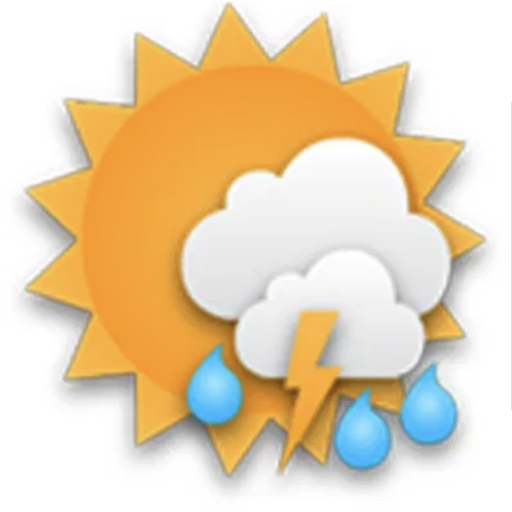
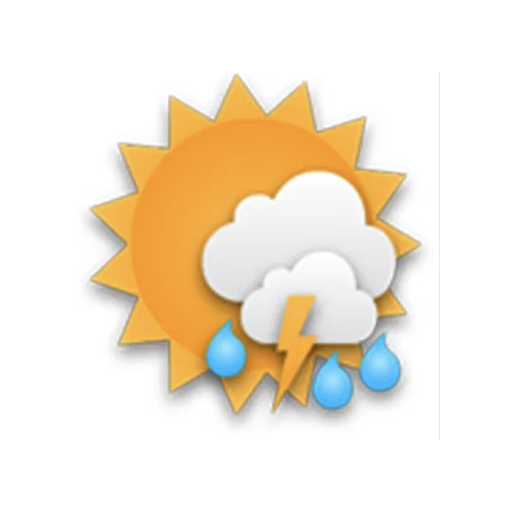
Add files via upload

diff --git a/index.html b/index.html
@@ -549,7 +549,7 @@ body{color:var(--text);font-family:-apple-system,'SF Pro Display',system-ui,sans
   <div class="lk-name" style="color:var(--text3)">잠금</div>
   <div class="lk-blocked" id="il-blk"></div>
   <div class="lk-form" id="il-form">
-    <input type="password" class="lk-inp" id="il-inp" placeholder="••••••" onkeydown="if(event.key==='Enter')iUnlock()" autocomplete="off">
+    <input type="password" class="lk-inp" id="il-inp" placeholder="앱 비밀번호" onkeydown="if(event.key==='Enter')iUnlock()" autocomplete="off">
     <div class="lk-err" id="il-err"></div>
     <button class="lk-btn" onclick="iUnlock()">해제</button>
   </div>
@@ -575,11 +575,7 @@ body{color:var(--text);font-family:-apple-system,'SF Pro Display',system-ui,sans
         <svg width="16" height="16" fill="none" stroke="currentColor" stroke-width="2" viewBox="0 0 24 24"><polyline points="3 6 5 6 21 6"/><path d="M19 6l-1 14H6L5 6"/><path d="M10 11v6M14 11v6"/><path d="M9 6V4h6v2"/></svg>
       </button>
       <button class="icon-btn" id="settings-btn" onclick="openSheet();clearMsgAlert()">
-        <svg id="settings-icon-single" width="16" height="16" fill="none" stroke="currentColor" stroke-width="2" viewBox="0 0 24 24"><circle cx="12" cy="12" r="3"/><path d="M19.4 15a1.65 1.65 0 0 0 .33 1.82l.06.06a2 2 0 0 1-2.83 2.83l-.06-.06a1.65 1.65 0 0 0-1.82-.33 1.65 1.65 0 0 0-1 1.51V21a2 2 0 0 1-4 0v-.09A1.65 1.65 0 0 0 9 19.4a1.65 1.65 0 0 0-1.82.33l-.06.06a2 2 0 0 1-2.83-2.83l.06-.06A1.65 1.65 0 0 0 4.68 15a1.65 1.65 0 0 0-1.51-1H3a2 2 0 0 1 0-4h.09A1.65 1.65 0 0 0 4.6 9a1.65 1.65 0 0 0-.33-1.82l-.06-.06a2 2 0 0 1 2.83-2.83l.06.06A1.65 1.65 0 0 0 9 4.68a1.65 1.65 0 0 0 1-1.51V3a2 2 0 0 1 4 0v.09a1.65 1.65 0 0 0 1 1.51 1.65 1.65 0 0 0 1.82-.33l.06-.06a2 2 0 0 1 2.83 2.83l-.06.06A1.65 1.65 0 0 0 19.4 9a1.65 1.65 0 0 0 1.51 1H21a2 2 0 0 1 0 4h-.09a1.65 1.65 0 0 0-1.51 1z"/></svg>
-        <svg id="settings-icon-double" width="22" height="14" fill="none" stroke="currentColor" stroke-width="2" viewBox="0 0 44 28" style="display:none">
-          <g transform="translate(0,0)"><circle cx="10" cy="10" r="3.5"/><path d="M17.4 13a1.3 1.3 0 0 0 .26 1.45l.05.05a1.6 1.6 0 0 1-2.26 2.26l-.05-.05a1.3 1.3 0 0 0-1.45-.26 1.3 1.3 0 0 0-.8 1.2V18a1.6 1.6 0 0 1-3.2 0v-.07a1.3 1.3 0 0 0-.85-1.19 1.3 1.3 0 0 0-1.45.26l-.05.05a1.6 1.6 0 0 1-2.26-2.26l.05-.05A1.3 1.3 0 0 0 5.4 13a1.3 1.3 0 0 0-1.2-.8H4a1.6 1.6 0 0 1 0-3.2h.07a1.3 1.3 0 0 0 1.19-.85 1.3 1.3 0 0 0-.26-1.45l-.05-.05A1.6 1.6 0 0 1 7.21 4.4l.05.05A1.3 1.3 0 0 0 8.71 4.7a1.3 1.3 0 0 0 .8-1.2V3.4a1.6 1.6 0 0 1 3.2 0v.07a1.3 1.3 0 0 0 .8 1.2 1.3 1.3 0 0 0 1.45-.26l.05-.05a1.6 1.6 0 0 1 2.26 2.26l-.05.05A1.3 1.3 0 0 0 17.48 8a1.3 1.3 0 0 0 1.2.8h.12a1.6 1.6 0 0 1 0 3.2h-.07a1.3 1.3 0 0 0-1.2.8z"/></g>
-          <g transform="translate(22,8)"><circle cx="10" cy="10" r="3.5"/><path d="M17.4 13a1.3 1.3 0 0 0 .26 1.45l.05.05a1.6 1.6 0 0 1-2.26 2.26l-.05-.05a1.3 1.3 0 0 0-1.45-.26 1.3 1.3 0 0 0-.8 1.2V18a1.6 1.6 0 0 1-3.2 0v-.07a1.3 1.3 0 0 0-.85-1.19 1.3 1.3 0 0 0-1.45.26l-.05.05a1.6 1.6 0 0 1-2.26-2.26l.05-.05A1.3 1.3 0 0 0 5.4 13a1.3 1.3 0 0 0-1.2-.8H4a1.6 1.6 0 0 1 0-3.2h.07a1.3 1.3 0 0 0 1.19-.85 1.3 1.3 0 0 0-.26-1.45l-.05-.05A1.6 1.6 0 0 1 7.21 4.4l.05.05A1.3 1.3 0 0 0 8.71 4.7a1.3 1.3 0 0 0 .8-1.2V3.4a1.6 1.6 0 0 1 3.2 0v.07a1.3 1.3 0 0 0 .8 1.2 1.3 1.3 0 0 0 1.45-.26l.05-.05a1.6 1.6 0 0 1 2.26 2.26l-.05.05A1.3 1.3 0 0 0 17.48 8a1.3 1.3 0 0 0 1.2.8h.12a1.6 1.6 0 0 1 0 3.2h-.07a1.3 1.3 0 0 0-1.2.8z"/></g>
-        </svg>
+        <svg width="16" height="16" fill="none" stroke="currentColor" stroke-width="2" viewBox="0 0 24 24"><circle cx="12" cy="12" r="3"/><path d="M19.4 15a1.65 1.65 0 0 0 .33 1.82l.06.06a2 2 0 0 1-2.83 2.83l-.06-.06a1.65 1.65 0 0 0-1.82-.33 1.65 1.65 0 0 0-1 1.51V21a2 2 0 0 1-4 0v-.09A1.65 1.65 0 0 0 9 19.4a1.65 1.65 0 0 0-1.82.33l-.06.06a2 2 0 0 1-2.83-2.83l.06-.06A1.65 1.65 0 0 0 4.68 15a1.65 1.65 0 0 0-1.51-1H3a2 2 0 0 1 0-4h.09A1.65 1.65 0 0 0 4.6 9a1.65 1.65 0 0 0-.33-1.82l-.06-.06a2 2 0 0 1 2.83-2.83l.06.06A1.65 1.65 0 0 0 9 4.68a1.65 1.65 0 0 0 1-1.51V3a2 2 0 0 1 4 0v.09a1.65 1.65 0 0 0 1 1.51 1.65 1.65 0 0 0 1.82-.33l.06-.06a2 2 0 0 1 2.83 2.83l-.06.06A1.65 1.65 0 0 0 19.4 9a1.65 1.65 0 0 0 1.51 1H21a2 2 0 0 1 0 4h-.09a1.65 1.65 0 0 0-1.51 1z"/></svg>
       </button>
       <button class="icon-btn" onclick="forceQuit()" style="color:#c0392b">
         <svg width="16" height="16" fill="none" stroke="currentColor" stroke-width="2" viewBox="0 0 24 24"><path d="M18.36 6.64A9 9 0 1 1 5.64 5.64"/><line x1="12" y1="2" x2="12" y2="12"/></svg>
@@ -1203,7 +1199,9 @@ async function afterUnlock(){
     }
     const su=localStorage.getItem(K.SU);
     if(!su){document.getElementById('ss').classList.add('on');return;}
-    const s=JSON.parse(su);myName=s.name;roomId=s.code.toUpperCase();secretKey=s.secret;myId='u_'+crypto.randomUUID().substring(0,8);await enterRoom();
+    const s=JSON.parse(su);myName=s.name;roomId=s.code.toUpperCase();secretKey=s.secret;
+    if(!myId){myId=localStorage.getItem('my_uid')||('u_'+crypto.randomUUID().substring(0,8));localStorage.setItem('my_uid',myId);}
+    await enterRoom();
   }catch(e){console.error(e);document.getElementById('sc').classList.add('on');}
 }
 function showAChg(){document.getElementById('al-form').style.display='none';document.getElementById('al-chg').style.display='flex';}
@@ -1230,12 +1228,25 @@ function saveSetup(){
   const n=document.getElementById('su-n').value.trim(),c=document.getElementById('su-c').value.trim().toUpperCase(),s=document.getElementById('su-s').value.trim();
   if(!n||!c||c.length<2||s.length<4){toast('모두 입력해주세요');return;}
   localStorage.setItem(K.SU,JSON.stringify({name:n,code:c,secret:s}));
-  myName=n;roomId=c;secretKey=s;myId='u_'+crypto.randomUUID().substring(0,8);
+  myName=n;roomId=c;secretKey=s;
+  if(!myId){myId=localStorage.getItem('my_uid')||('u_'+crypto.randomUUID().substring(0,8));localStorage.setItem('my_uid',myId);}
   document.getElementById('ss').classList.remove('on');enterRoom();
 }
 
 // IDLE
-function resetIdle(){if(!inRoom||idleLimit===0)return;idleSecs=0;const f=document.getElementById('idle-bar');f.style.width='100%';f.className='idle-bar';}
+function startIdle(){
+  if(idleIv)clearInterval(idleIv);
+  idleSecs=0;
+  ['mousemove','keydown','touchstart','click','scroll'].forEach(ev=>document.addEventListener(ev,resetIdle,{passive:true}));
+  idleIv=setInterval(()=>{
+    if(!inRoom||idleLocked||idleLimit===0)return;
+    idleSecs++;
+    const pct=Math.max(0,100-idleSecs/idleLimit*100);
+    document.getElementById('idle-bar').style.width=pct+'%';
+    if(idleSecs>=idleLimit)iLock();
+  },1000);
+}
+function resetIdle(){if(!inRoom||idleLimit===0)return;idleSecs=0;const f=document.getElementById('idle-bar');if(f){f.style.width='100%';f.className='idle-bar';}}
 function startIdle(){
   ['mousemove','keydown','touchstart','click','scroll'].forEach(ev=>document.addEventListener(ev,resetIdle,{passive:true}));
   if(idleIv)clearInterval(idleIv);
@@ -1248,12 +1259,13 @@ function startIdle(){
   },1000);
 }
 function iLock(){if(idleLocked||!inRoom)return;idleLocked=true;document.getElementById('sil').classList.add('on');document.getElementById('il-inp').value='';document.getElementById('il-err').textContent='';toast('잠금됨');}
-function iUnlock(){
+async function iUnlock(){
   if(Date.now()<ilBlk)return;
   const v=document.getElementById('il-inp').value;
-  if(v===secretKey){idleLocked=false;ilFail=0;document.getElementById('sil').classList.remove('on');resetIdle();toast('해제됨');}
-  else{ilFail++;if(ilFail>=5){ilBlk=Date.now()+5*60*1000;document.getElementById('il-form').style.display='none';const b=document.getElementById('il-blk');b.style.display='block';b.textContent='5회 초과 — 5분 후 재시도';setTimeout(()=>{ilFail=0;ilBlk=0;document.getElementById('il-form').style.display='flex';b.style.display='none';},5*60*1000);}else{document.getElementById('il-err').textContent=`잘못된 암호키 (${ilFail}/5)`;document.getElementById('il-inp').value='';}}
-}
+  const stored=localStorage.getItem(K.PW);
+  const ok=stored?(await hPw(v)===stored):(v.length>=4);
+  if(ok){idleLocked=false;ilFail=0;document.getElementById('sil').classList.remove('on');resetIdle();toast('해제됨');}
+  else{ilFail++;if(ilFail>=5){ilBlk=Date.now()+5*60*1000;document.getElementById('il-form').style.display='none';const b=document.getElementById('il-blk');b.style.display='block';b.textContent='5회 초과 — 5분 후 재시도';setTimeout(()=>{ilFail=0;ilBlk=0;document.getElementById('il-form').style.display='flex';b.style.display='none';},5*60*1000);}else{document.getElementById('il-err').textContent=`비밀번호가 틀렸어요 (${ilFail}/5)`;document.getElementById('il-inp').value='';}}
 
 // ROOM
 async function enterRoom(){
@@ -1268,6 +1280,8 @@ async function enterRoom(){
   }catch(e){console.error(e);}
   document.getElementById('sch').classList.add('on');
   inRoom=true;startPres();listenM();listenP();listenPr();startIdle();resetIdle();
+  // 안 읽은 메시지 읽음 처리
+  markAllRead();
 }
 
 // PRESENCE
@@ -1293,13 +1307,27 @@ async function sendMsg(){
   const ta=document.getElementById('cta'),t=ta.value.trim();if(!t)return;
   ta.value='';aH(ta);resetIdle();
   const enc=await ENC(t,secretKey);
-  await db.collection('rooms').doc(roomId).collection('messages').add({enc,senderId:myId,senderName:myName,ts:firebase.firestore.FieldValue.serverTimestamp(),type:'text'});
+  await db.collection('rooms').doc(roomId).collection('messages').add({enc,senderId:myId,senderName:myName,ts:firebase.firestore.FieldValue.serverTimestamp(),type:'text',read:false});
+}
+
+// 읽음 처리
+async function markAllRead(){
+  if(!db||!roomId)return;
+  try{
+    const snap=await db.collection('rooms').doc(roomId).collection('messages')
+      .where('senderId','!=',myId).where('read','==',false).get();
+    const batch=db.batch();
+    snap.docs.forEach(doc=>batch.update(doc.ref,{read:true}));
+    await batch.commit();
+  }catch{}
 }
 
 // 설정 버튼 알림 초기화
 function clearMsgAlert(){
-  document.getElementById('settings-icon-single').style.display='block';
-  document.getElementById('settings-icon-double').style.display='none';
+  chatUnread=0;
+  const badge=document.getElementById('b-chat');
+  badge.textContent='';badge.style.display='none';
+}
 }
 
 // 사진 전송
@@ -1376,22 +1404,29 @@ function listenM(){
           b.textContent=txt;
         }
         const tm=document.createElement('div');tm.className='mtime';tm.textContent=fTime(ts);
+        // 내 메시지에 읽음 표시
+        const readMark=document.createElement('div');
+        readMark.setAttribute('data-read-m',id);
+        readMark.style.cssText='font-size:10px;color:#cc7c3a;margin-bottom:2px;';
+        readMark.textContent=isMe&&d.read===false?'1':'';
         row.appendChild(b);row.appendChild(tm);
         w.appendChild(row);
+        if(isMe) w.appendChild(readMark);
         msgs.appendChild(w);
         if(!isMe){
           chatUnread++;
-          // 3. 안읽은 내용 숫자 대신 1자(●) 표시
           const badge=document.getElementById('b-chat');
           badge.textContent='●';badge.style.display='block';
-          document.getElementById('settings-icon-single').style.display='none';
-          document.getElementById('settings-icon-double').style.display='block';
-          
           sendWeatherNotif();
         }
       }
       // 4. 개별 삭제 removed 이벤트만 처리 (삭제 버튼 없음)
       if(ch.type==='removed'){const el=document.querySelector(`[data-m="${ch.doc.id}"]`);if(el)el.remove();}
+      // 읽음 상태 업데이트
+      if(ch.type==='modified'){
+        const el=document.querySelector(`[data-read-m="${ch.doc.id}"]`);
+        if(el&&ch.doc.data().read===true)el.textContent='';
+      }
     }
     // 5. 항상 맨 아래로
     const msgs=document.getElementById('msgs');

diff --git a/sw.js b/sw.js
@@ -1,4 +1,4 @@
-const CACHE = 'running-v2';
+const CACHE = 'running-v3';
 const STATIC = ['/weather/', '/weather/index.html', '/weather/manifest.json', '/weather/icon-192.png', '/weather/icon-512.png'];
 
 self.addEventListener('install', e => {